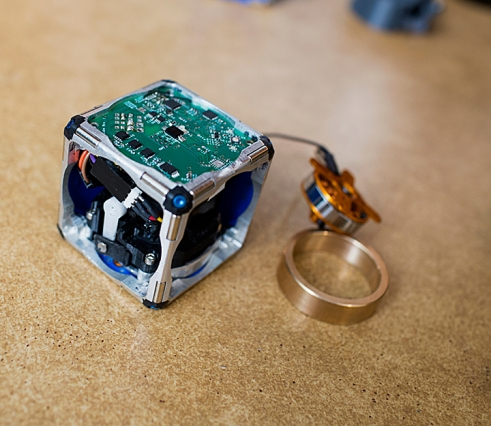
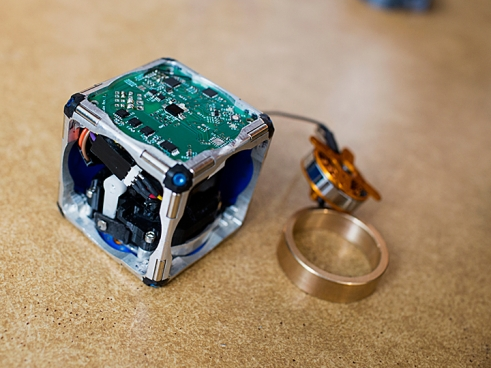
picture editing and small tweaks

diff --git a/index.html b/index.html
@@ -31,7 +31,7 @@
 
       ga('create', 'UA-67762426-1', 'auto');
       ga('send', 'pageview');
-      _gaq.push(['_setDomainName','github.io']);  
+      _gaq.push(['_setDomainName','github.io']);
     </script>
     <!-- HTML5 Shim and Respond.js IE8 support of HTML5 elements and media queries -->
     <!-- WARNING: Respond.js doesn't work if you view the page via file:// -->
@@ -85,7 +85,7 @@
         <div class="container">
             <div class="row">
                 <div class="col-lg-12">
-                    <img class="img-responsive" src="img/profile2.png" alt="">
+                    <img class="img-responsive" src="img/profile1.png" alt="">
                     <div class="intro-text">
                         <span class="name">Bianca Homberg</span>
                         <hr class="star-light">
@@ -113,7 +113,7 @@
                                 <i class="fa fa-search-plus fa-3x"></i>
                             </div>
                         </div>
-                        <img src="img/portfolio/baxter1.png" class="img-responsive" alt="">
+                        <img src="img/portfolio/baxter1_edit.png" class="img-responsive" alt="">
                     </a>
                 </div>
                 <div class="col-sm-4 portfolio-item">
@@ -123,7 +123,7 @@
                                 <i class="fa fa-search-plus fa-3x"></i>
                             </div>
                         </div>
-                        <img src="img/portfolio/semantic.png" class="img-responsive" alt="">
+                        <img src="img/portfolio/semantic_edit.png" class="img-responsive" alt="">
                     </a>
                 </div>
                 <div class="col-sm-4 portfolio-item">
@@ -163,7 +163,7 @@
                                 <i class="fa fa-search-plus fa-3x"></i>
                             </div>
                         </div>
-                        <img src="img/portfolio/rss.png" class="img-responsive" alt="">
+                        <img src="img/portfolio/rss_edit.png" class="img-responsive" alt="">
                     </a>
                 </div>
             </div>
@@ -281,15 +281,6 @@
                 </div>
             </div>
         </div>
-        <div class="footer-below">
-            <div class="container">
-                <div class="row">
-                    <div class="col-lg-12">
-                        Copyright &copy; Bianca Homberg 2015
-                    </div>
-                </div>
-            </div>
-        </div>
     </footer>
 
     <!-- Scroll to Top Button (Only visible on small and extra-small screen sizes) -->
@@ -355,7 +346,7 @@
                         <div class="modal-body">
                             <h2>Semantic Mapping</h2>
                             <hr class="star-primary">
-                            <img src="img/portfolio/semantic.png" class="img-responsive img-centered" alt="">
+                            <img src="img/portfolio/semantic_edit.png" class="img-responsive img-centered" alt="">
                             <p>This paper describes a framework that enables robots to efficiently learn human-centric models of their environment from natural language descriptions. Typical semantic mapping approaches are limited to augmenting metric maps with higher-level properties of the robot’s surroundings (e.g., place type, object locations) that can be inferred from the robot’s sensor data, but do not use this information to improve the metric map.  The novelty of our algorithm lies in fusing high-level knowledge that people can uniquely provide through speech with metric information from the robot’s low-level sensor streams. Our method jointly estimates a hybrid metric, topological, and semantic representation of the environment. This semantic graph provides a common framework in which we integrate information that the user communicates (e.g., labels and spatial relations) with metric observations from low-level sensors. Our algorithm efficiently maintains a factored distribution over semantic graphs based upon the stream of natural language and low-level sensor information. We detail the means by which the framework incorporates knowledge conveyed by the user’s descriptions, including the ability to reason over expressions that reference yet unknown regions in the environment. We evaluate the algorithm’s ability to learn human-centric maps of several different environments and analyze the knowledge inferred from language and the utility of the learned maps. The results demonstrate that the incorporation of information from free-form descriptions increases the metric, topological and semantic accuracy of the recovered environment model.
                             <br><br>
                             This work was presented at RSS 2013 and was accepted to IJRR 2014.  3rd author.</p>
